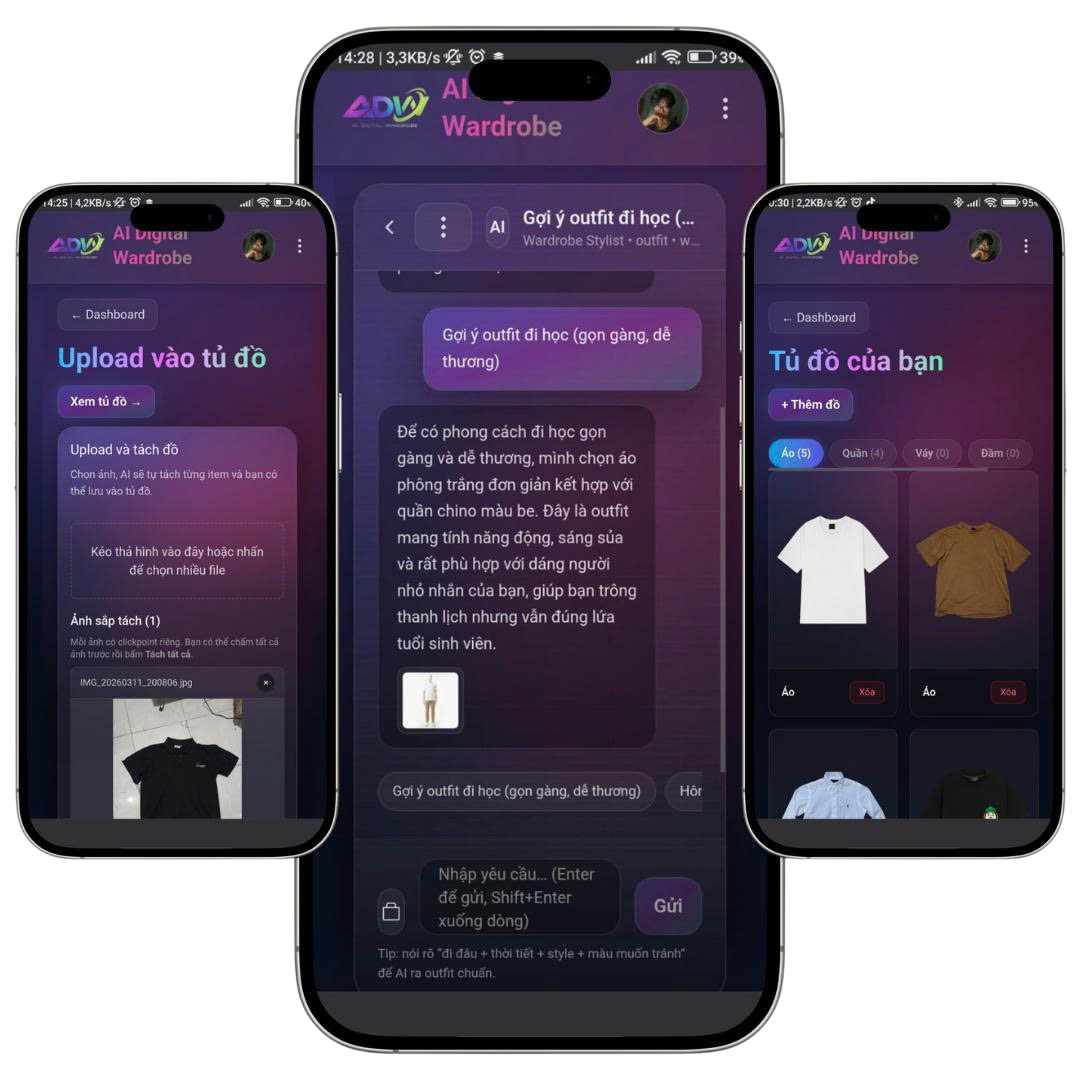
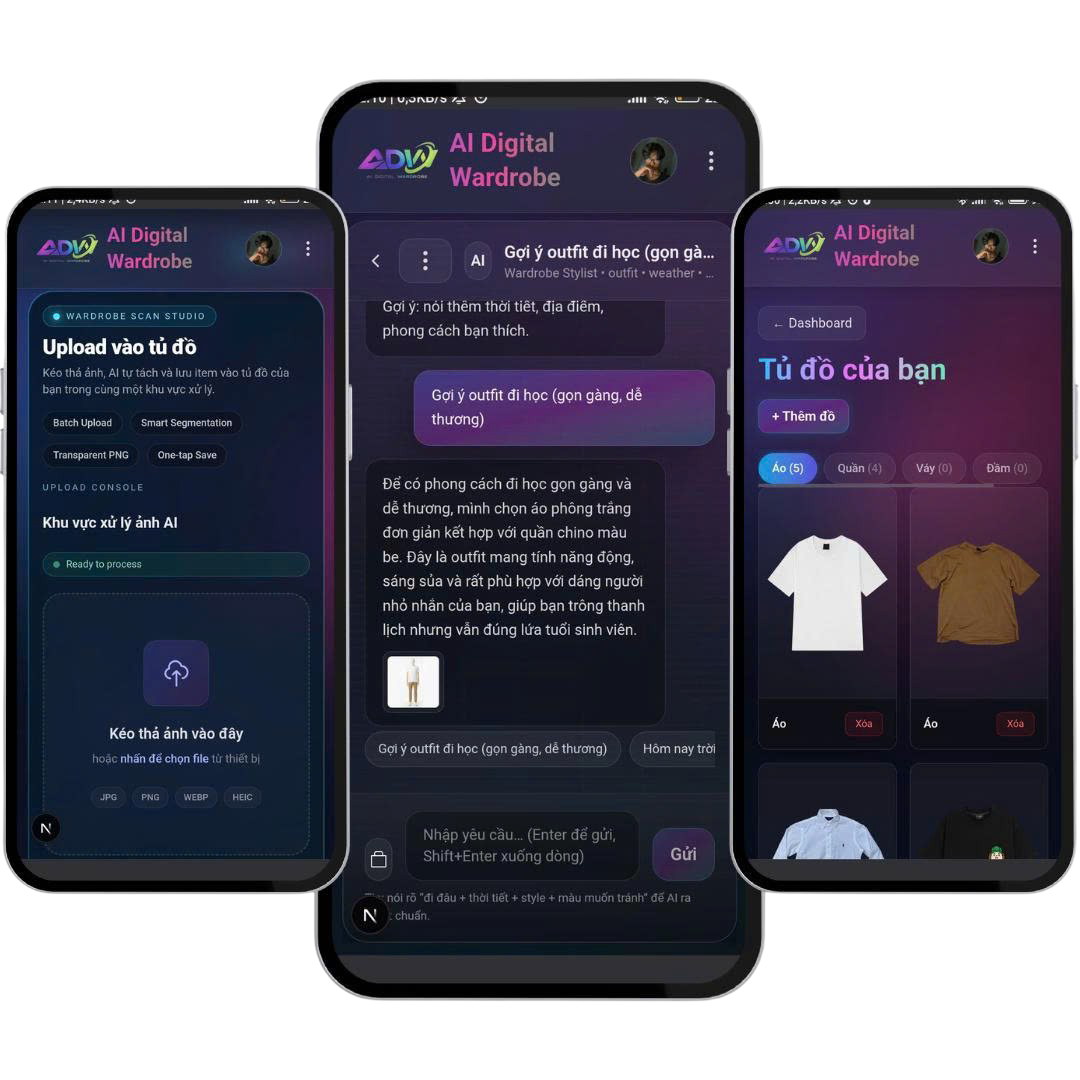
sua giao dien

diff --git a/src/app/dashboard/page.tsx b/src/app/dashboard/page.tsx
@@ -2,7 +2,7 @@
 
 import { useAuth } from "@/lib/AuthContext";
 import { useRouter } from "next/navigation";
-import { useEffect } from "react";
+import { useEffect, useState } from "react";
 import Link from "next/link";
 import { hasActiveVip } from "@/lib/profile";
 
@@ -75,6 +75,7 @@ const features = [
 export default function Dashboard() {
   const { user, loading, profile, account } = useAuth();
   const router = useRouter();
+  const [mounted, setMounted] = useState(false);
 
   useEffect(() => {
     if (!loading) {
@@ -85,6 +86,15 @@ export default function Dashboard() {
       }
     }
   }, [loading, user, profile, router]);
+
+  useEffect(() => {
+    if (loading || !user || !profile) {
+      setMounted(false);
+      return;
+    }
+    const t = setTimeout(() => setMounted(true), 50);
+    return () => clearTimeout(t);
+  }, [loading, user, profile]);
 
   if (loading) {
     return (
@@ -100,7 +110,6 @@ export default function Dashboard() {
 
   const displayName = account?.displayName || user.displayName || emailPrefix(user.email);
   const vipActive = hasActiveVip(account ?? profile ?? null);
-  const mounted = !loading && !!user && !!profile;
 
 
   return (
@@ -157,16 +166,18 @@ export default function Dashboard() {
 
         {/* ── Feature Cards Grid ───────── */}
         <section className={`grid grid-cols-1 md:grid-cols-3 gap-6 lg:gap-7 transition-all duration-700 delay-300 ${mounted ? "opacity-100 translate-y-0" : "opacity-0 translate-y-6"}`}>
-          {features.map((f) => (
+          {features.map((f, idx) => (
             <Link
               key={f.href}
               href={f.href}
               className={`group relative rounded-[22px] overflow-hidden
                 border border-white/[0.08] bg-white/[0.02] backdrop-blur-sm
                 shadow-[0_20px_60px_rgba(0,0,0,0.4)]
-                transition-all duration-400
+                transition-all duration-700
+                ${mounted ? "opacity-100 translate-y-0" : "opacity-0 translate-y-6"}
                 hover:border-white/[0.16] hover:-translate-y-2
                 ${f.borderGlow}`}
+              style={{ transitionDelay: `${360 + idx * 90}ms` }}
             >
               {/* Card top glow */}
               <div className={`absolute inset-0 -z-[1] opacity-0 group-hover:opacity-100 transition-opacity duration-500

diff --git a/src/app/about/page.tsx b/src/app/about/page.tsx
@@ -238,6 +238,22 @@ export default function About() {
           </div>
         </section>
 
+        {/* About Image Layer */}
+        <section className={`py-8 md:py-14 transition-all duration-700 delay-[400ms] ${mounted ? "opacity-100 translate-y-0" : "opacity-0 translate-y-6"}`}>
+          <div className="relative overflow-hidden rounded-[34px] border border-white/10 bg-white/[0.04] p-3 shadow-[0_24px_80px_rgba(0,0,0,.32)] backdrop-blur-xl md:p-4">
+            <div className="absolute inset-x-10 top-0 h-32 rounded-full bg-[radial-gradient(circle,rgba(99,102,241,0.18),rgba(236,72,153,0.08),transparent_72%)] blur-3xl" />
+            <div className="relative overflow-hidden rounded-[28px] border border-white/8 bg-[#0a1020]">
+              {/* eslint-disable-next-line @next/next/no-img-element */}
+              <img
+                src="/about-image.jpg"
+                alt="AI Digital Wardrobe overview"
+                className="w-full h-auto object-cover"
+              />
+              <div className="absolute inset-0 bg-gradient-to-t from-[#08101f]/45 via-transparent to-transparent pointer-events-none" />
+            </div>
+          </div>
+        </section>
+
         {/* Contact */}
         <section className={`py-12 md:py-20 transition-all duration-700 delay-500 ${mounted ? "opacity-100 translate-y-0" : "opacity-0 translate-y-6"}`}>
           <div className="relative overflow-hidden rounded-[34px] border border-white/10 bg-[linear-gradient(135deg,rgba(99,102,241,.16),rgba(236,72,153,.12),rgba(34,197,94,.12))] p-8 shadow-[0_26px_90px_rgba(0,0,0,.4)] backdrop-blur-xl md:p-10">

diff --git a/src/app/wardrobe/page.tsx b/src/app/wardrobe/page.tsx
@@ -67,11 +67,19 @@ export default function WardrobePage() {
         console.error(e);
       } finally {
         setFetching(false);
-        setMounted(true);
       }
     };
     if (!loading && user) run();
   }, [loading, user]);
+
+  useEffect(() => {
+    if (loading || fetching) {
+      setMounted(false);
+      return;
+    }
+    const t = setTimeout(() => setMounted(true), 50);
+    return () => clearTimeout(t);
+  }, [loading, fetching]);
 
   const grouped = useMemo(() => {
     const g: Record<CatKey, WardrobeItem[]> = { ao: [], quan: [], vay: [], dam: [], giay: [] };
@@ -195,8 +203,10 @@ export default function WardrobePage() {
               {activeList.map((it, idx) => (
                 <div
                   key={it.id}
-                  className="border border-white/10 bg-white/[0.03] rounded-xl overflow-hidden relative shadow-lg hover:border-white/20 transition-all group"
-                  style={{ animationDelay: `${idx * 60}ms` }}
+                  className={`border border-white/10 bg-white/[0.03] rounded-xl overflow-hidden relative shadow-lg hover:border-white/20 transition-all duration-700 group ${
+                    mounted ? "opacity-100 translate-y-0" : "opacity-0 translate-y-6"
+                  }`}
+                  style={{ transitionDelay: `${360 + idx * 70}ms` }}
                 >
                   {/* eslint-disable-next-line @next/next/no-img-element */}
                   <img src={it.imageUrl} alt="item" className="w-full h-64 object-contain p-2" />

diff --git a/src/app/page.tsx b/src/app/page.tsx
@@ -152,12 +152,8 @@ export default function Home() {
 
                   <div className="absolute inset-0 bg-[#12182b]/80 border border-white/20 rounded-3xl flex items-center justify-center z-10 overflow-hidden shadow-[0_20px_40px_rgba(0,0,0,0.5)] backdrop-blur-2xl transition-all duration-500 hover:border-white/40 group-hover/image:scale-[1.02]">
                     <div className="absolute inset-0 bg-gradient-to-b from-white/5 to-transparent"></div>
-                    <div className="text-center p-6 relative">
-                      <div className="w-16 h-16 bg-gradient-to-tr from-indigo-500 to-purple-500 rounded-2xl mx-auto mb-4 flex items-center justify-center shadow-lg shadow-indigo-500/20">
-                        <span className="text-2xl">✨</span>
-                      </div>
-                      <span className="text-white/80 tracking-widest text-sm font-semibold block mb-1">AI STYLING</span>
-                      <span className="text-white/40 text-xs">Phân tích & Phối đồ</span>
+                    <div className="text-center relative">
+                      <img src="chat-image.png" alt="" className="w-full h-full object-cover" />
                     </div>
                   </div>
                 </div>

diff --git a/src/app/wardrobe/upload/page.tsx b/src/app/wardrobe/upload/page.tsx
@@ -95,7 +95,7 @@ export default function WardrobeUploadPage() {
                     <span className="h-2 w-2 rounded-full bg-cyan-300 shadow-[0_0_10px_rgba(103,232,249,0.9)]" />
                     WARDROBE SCAN STUDIO
                   </div>
-                  <h1 className="text-[clamp(1.6rem,3.6vw,2.6rem)] font-black leading-[1.02] tracking-[-0.02em] [font-family:'Space_Grotesk','Plus_Jakarta_Sans',ui-sans-serif] text-white">
+                  <h1 className="text-[clamp(1.6rem,3.6vw,2.6rem)] font-black leading-[1.02] tracking-[-0.02em]  text-white">
                     Upload vào tủ đồ
                   </h1>
                   <p className="mt-2 text-sm md:text-base text-white/60">
